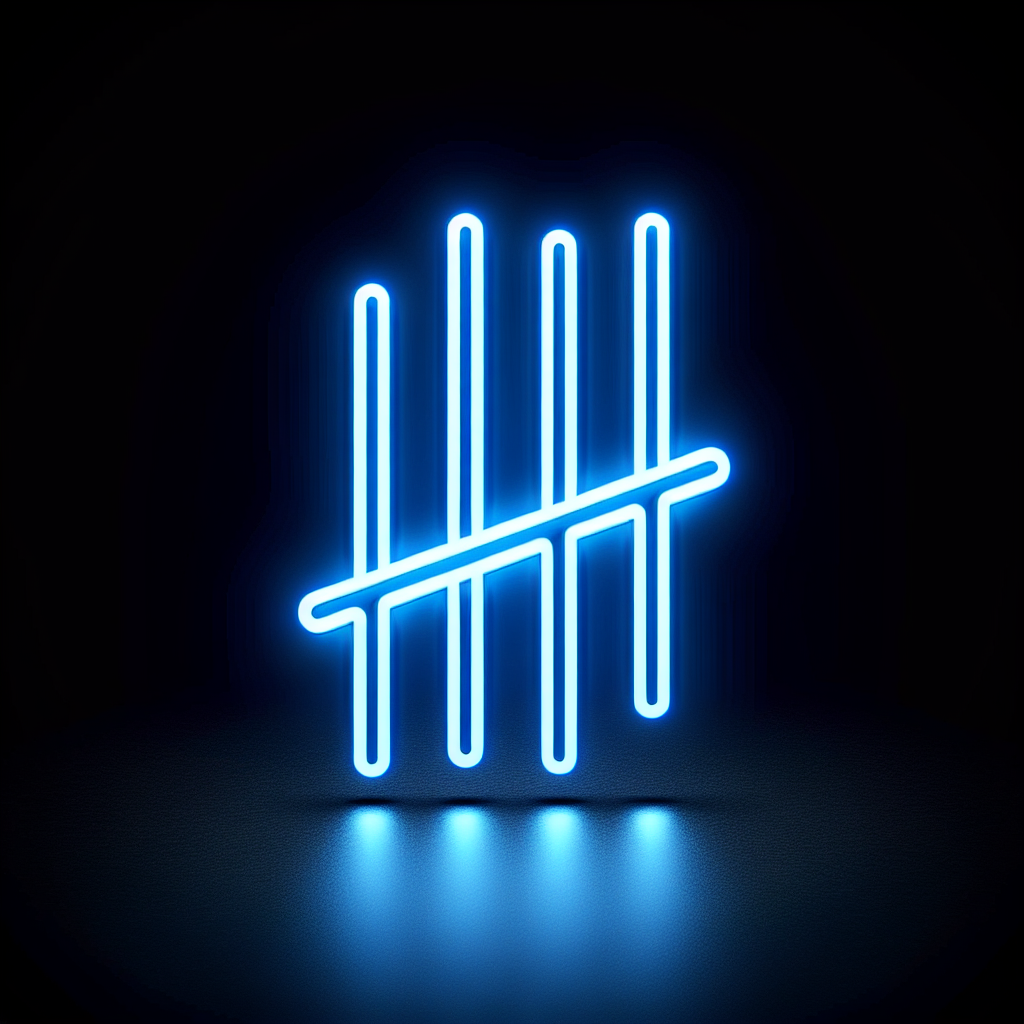
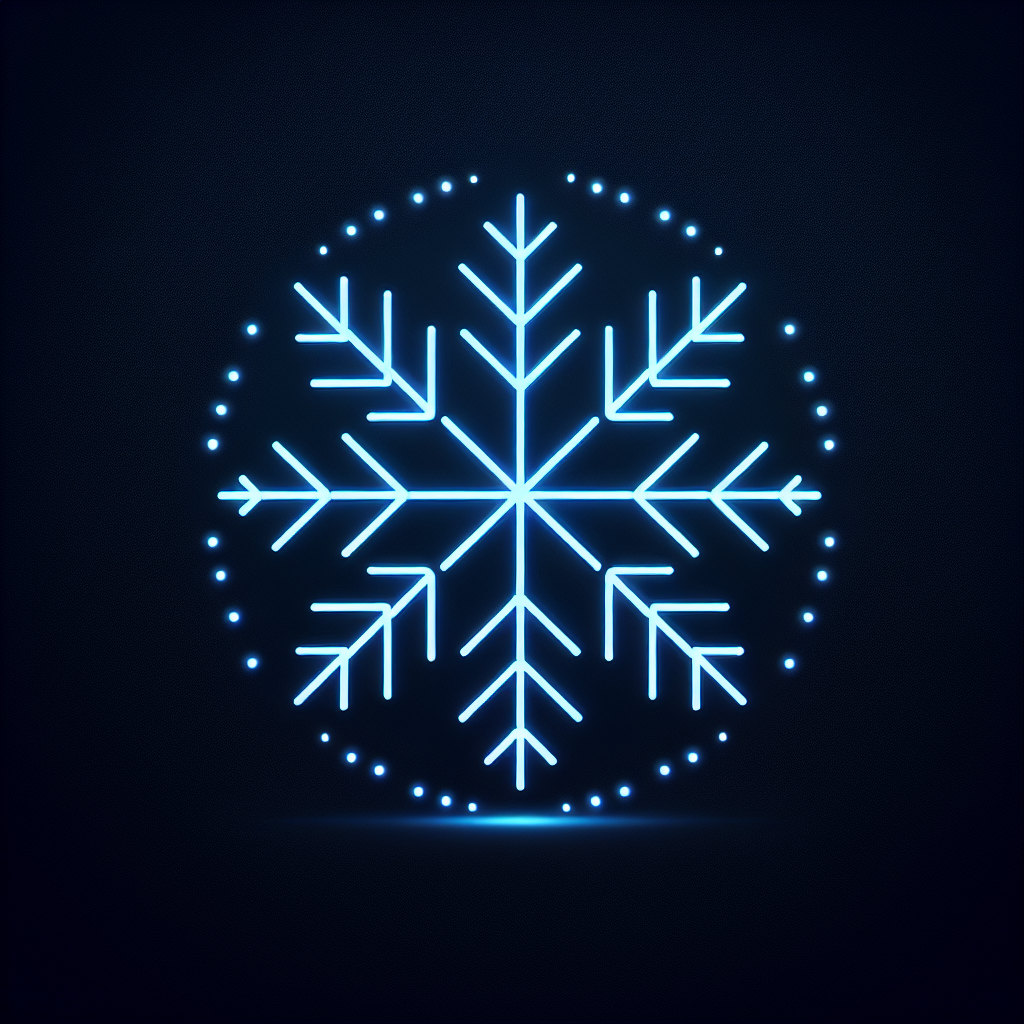
Improve payment system stability by validating configuration settings
Adds validation for Stripe public key and handles cases where it's missing.

Replit-Commit-Author: Agent
Replit-Commit-Session-Id: a3491ba5-ba51-46b2-9ed7-a83726cadf07
Replit-Commit-Screenshot-Url: https://storage.googleapis.com/screenshot-production-us-central1/eb5fa4d1-cd60-420e-be26-16f2e3c75ad8/0ec1692b-3989-4412-b3df-04e3fed3e93d.jpg

diff --git a/client/src/components/StripeCreditCheckout.tsx b/client/src/components/StripeCreditCheckout.tsx
@@ -7,10 +7,12 @@ import { Button } from "@/components/ui/button";
 import { Loader2 } from "lucide-react";
 
 // Load Stripe outside of component render cycle
-if (!import.meta.env.VITE_STRIPE_PUBLIC_KEY) {
+const STRIPE_PUBLIC_KEY = import.meta.env.VITE_STRIPE_PUBLIC_KEY;
+if (!STRIPE_PUBLIC_KEY) {
   console.error('Missing required Stripe key: VITE_STRIPE_PUBLIC_KEY');
 }
-const stripePromise = loadStripe(import.meta.env.VITE_STRIPE_PUBLIC_KEY);
+// Only initialize Stripe if we have a valid public key (must be a string)
+const stripePromise = STRIPE_PUBLIC_KEY ? loadStripe(STRIPE_PUBLIC_KEY) : null;
 
 interface CheckoutFormProps {
   onSuccess?: () => void;
@@ -165,6 +167,21 @@ export default function StripeCreditCheckout({ packageId, onSuccess, onCancel }:
     );
   }
 
+  // Check if Stripe is properly initialized
+  if (!stripePromise) {
+    return (
+      <div className="p-4 text-center">
+        <p className="text-destructive">Payment system is unavailable. Please try again later.</p>
+        <p className="mt-2 text-sm text-muted-foreground">
+          Missing Stripe configuration. Contact customer support if this issue persists.
+        </p>
+        <Button onClick={onCancel} className="mt-4">
+          Go Back
+        </Button>
+      </div>
+    );
+  }
+  
   return (
     <Elements stripe={stripePromise} options={{ clientSecret }}>
       <div className="p-4">

diff --git a/client/src/components/CreditPackages.tsx b/client/src/components/CreditPackages.tsx
@@ -90,8 +90,14 @@ export default function CreditPackages({ isPremium = false}: CreditPackagesProps
       }
       
       // In production, redirect to Stripe checkout
-      console.log(`Loading Stripe with public key: ${import.meta.env.VITE_STRIPE_PUBLIC_KEY.substring(0, 8)}...`);
-      const stripe = await loadStripe(import.meta.env.VITE_STRIPE_PUBLIC_KEY);
+      const STRIPE_PUBLIC_KEY = import.meta.env.VITE_STRIPE_PUBLIC_KEY;
+      if (!STRIPE_PUBLIC_KEY || typeof STRIPE_PUBLIC_KEY !== 'string') {
+        console.error('Invalid or missing Stripe public key');
+        throw new Error("Stripe public key is not properly configured");
+      }
+      
+      console.log(`Loading Stripe with public key: ${STRIPE_PUBLIC_KEY.substring(0, 8)}...`);
+      const stripe = await loadStripe(STRIPE_PUBLIC_KEY);
       if (!stripe) {
         console.error('Failed to initialize Stripe');
         throw new Error("Stripe not loaded");
